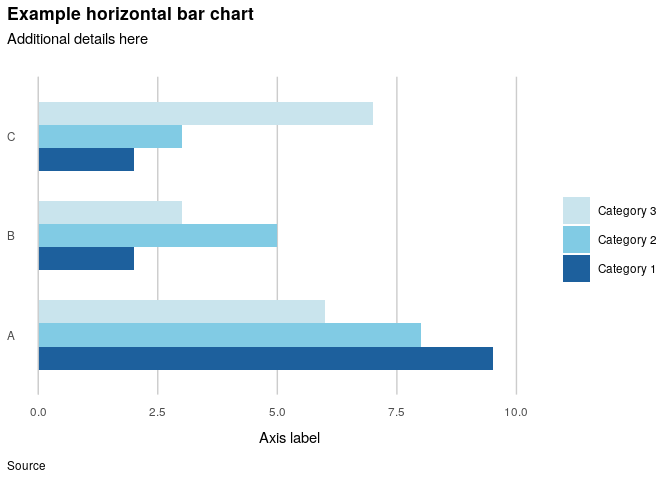
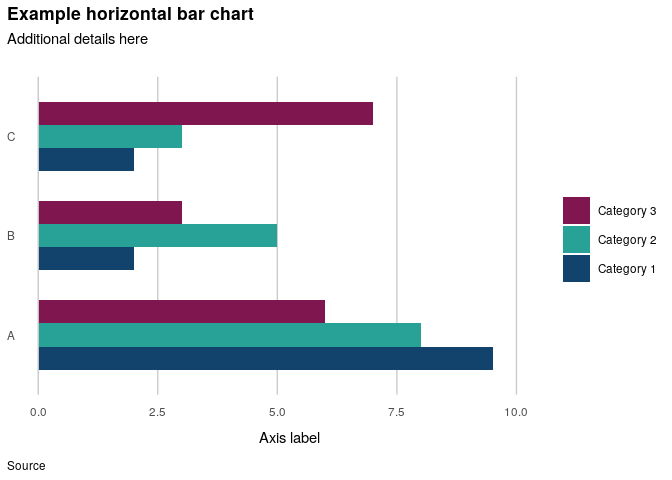
Change example to Analysis Function palette

diff --git a/README.md b/README.md
@@ -241,7 +241,7 @@ ggplot(bars(3), aes(x = col1, y = col3, fill = col2)) +
   expand_limits(y = 10) +
   guides(fill = guide_legend(reverse = TRUE)) +
   theme_gss(flipped = TRUE, xlabel = TRUE) +
-  scale_fill_moj(3, scheme = "muted1")
+  scale_fill_moj(3, scheme = "govanal_bars")
 ```
 
 ![](man/figures/README-example3-1.png)<!-- -->
